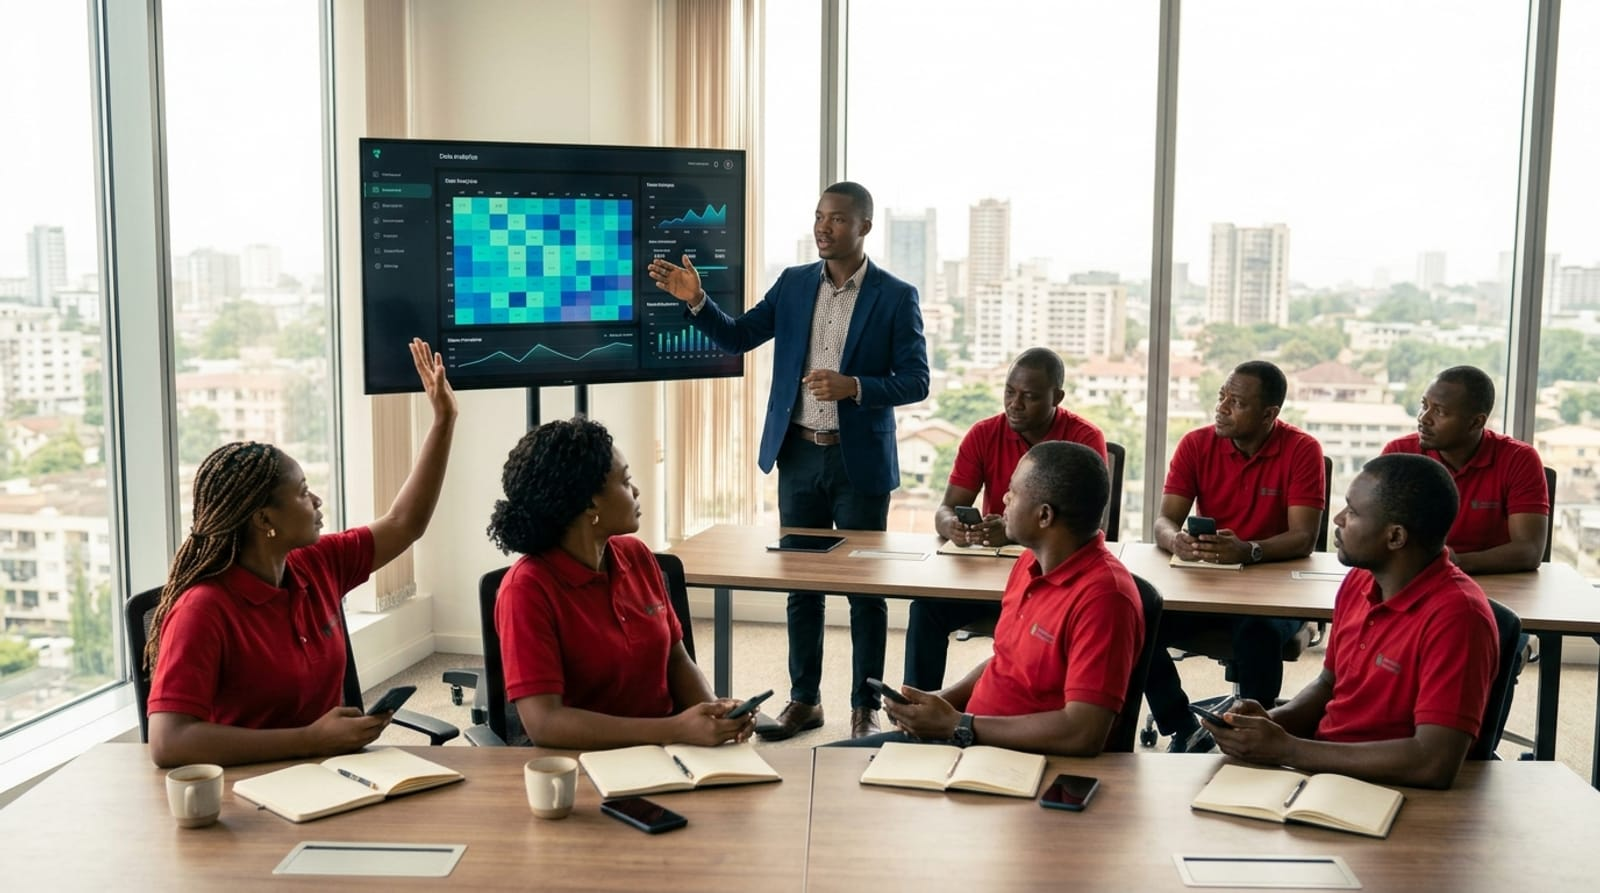
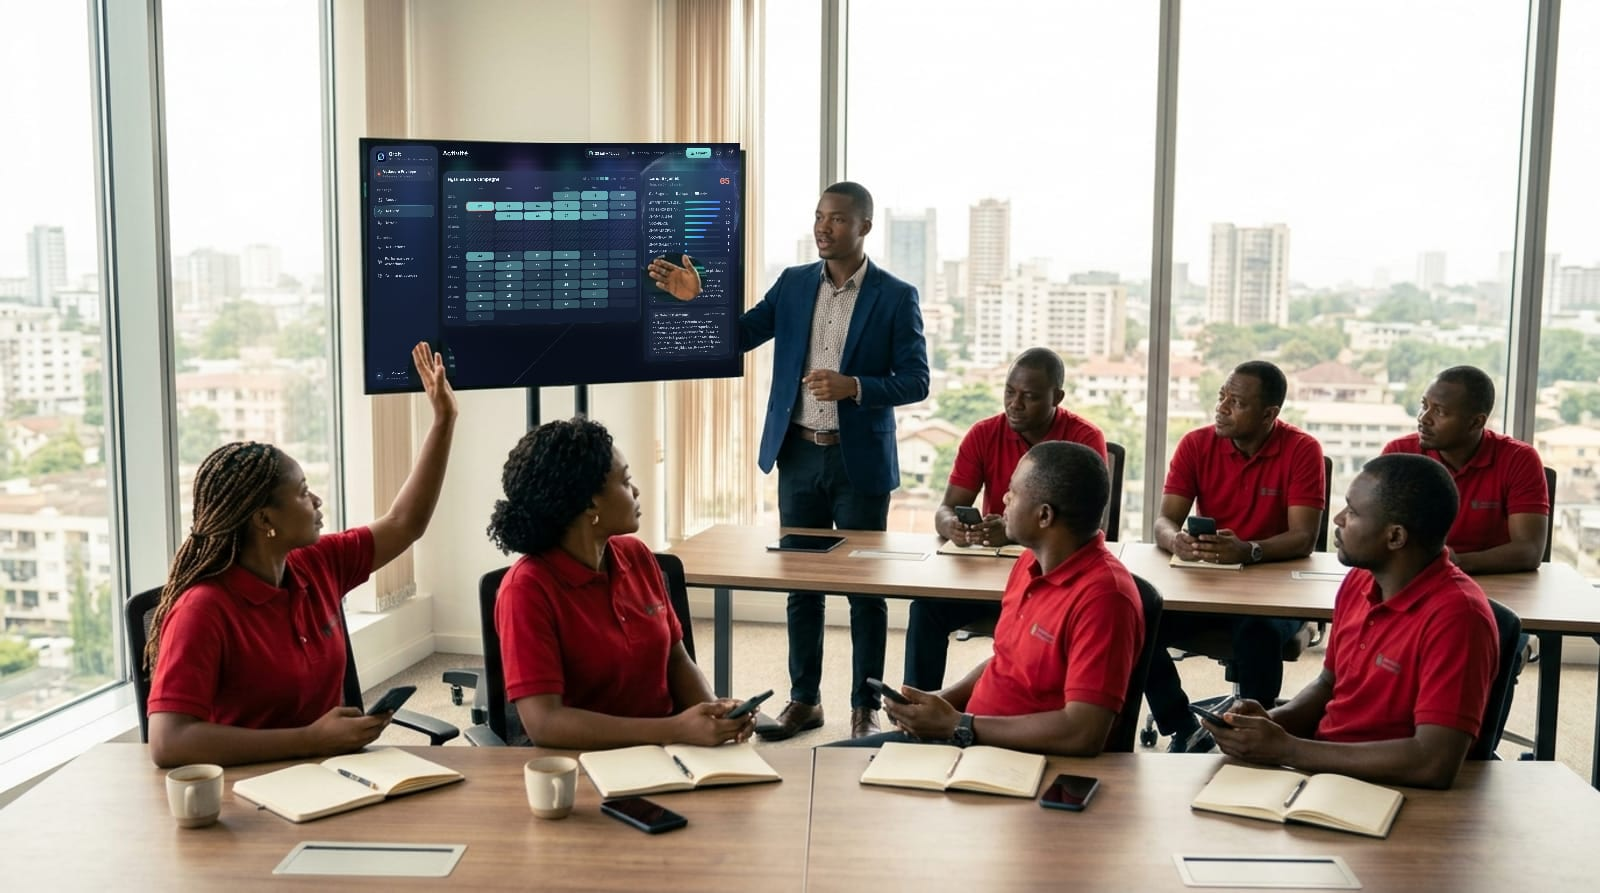
feat : vrais écrans d'Orbit dans les photos, QR code, nouveaux prix
- Captures réelles incrustées en perspective sur 7 photos (masques des mains et têtes)
- QR code d'accès à Orbit sur la slide « Se connecter »
- Signature BTL retirée de l'en-tête ; fin : « Orbit · Développé par Eldo »
- Prix : 400 $ par campagne, +100 $ option IA, 50 $ par nouveau type ; modèle ROI aligné

Changed region(s): [[0.2188, 0.1512, 0.4688, 0.4233]]

diff --git a/index.html b/index.html
@@ -25,7 +25,6 @@
 
 <header class="brandbar">
   <span class="brand"><img src="images/orbit.svg" alt="">Orbit</span>
-  <span class="btl" aria-label="BEYOND THE LINE Africa"><span class="btl-mark"><i></i><i></i><i></i></span><span class="btl-word"><b>BTL AFRICA</b><small>BEYOND THE LINE</small></span></span>
 </header>
 <div class="progress"><i></i></div>
 
@@ -201,6 +200,7 @@
       <span class="eyebrow">Étape 1</span>
       <h2>Se connecter</h2>
       <ol class="steps"><li><span><b>Vodacom</b> : lecture seule, un clic.</span></li><li><span><b>BTL</b> : choisir son profil, saisir son mot de passe.</span></li><li><span>Le tracker ouvre Orbit déjà connecté.</span></li></ol>
+      <div class="qr"><img src="images/qr-orbit.svg" alt="QR code vers Orbit"><span><b>Scannez pour ouvrir Orbit</b>eldoradodesign1.github.io/btl-deployment-report</span></div>
     </div>
     <div class="shot"><img src="images/app/01-connexion.jpg" alt="Écran de connexion d'Orbit"></div>
   </div>
@@ -347,8 +347,8 @@
     <span class="eyebrow">Le coût</span>
     <h2>Investi une fois.<br><span class="grad">Presque rien ensuite.</span></h2>
     <div class="tiles t3">
-      <div class="glass tile"><span class="tag">Développement complet</span><div class="num">500<small>$</small></div><p>Une fois. Déjà réalisé.</p></div>
-      <div class="glass tile"><span class="tag">Nouvelle campagne</span><div class="num">~100<small>$</small></div><p>Pour brancher un nouveau type.</p></div>
+      <div class="glass tile"><span class="tag">Développement complet</span><div class="num">500<small>$</small></div><p>Une fois. Déjà en cours de réalisation.</p></div>
+      <div class="glass tile"><span class="tag">Nouvelle campagne</span><div class="num">50<small>$</small></div><p>Pour brancher un nouveau type.</p></div>
       <div class="glass tile hl"><span class="tag">Hébergement</span><div class="num">&lt; 50<small>$ / mois</small></div><p>Base, site et IA compris.</p></div>
     </div>
   </div>
@@ -360,8 +360,8 @@
     <span class="eyebrow">Le modèle</span>
     <h2>Orbit devient<br><span class="grad">une ligne de facture.</span></h2>
     <div class="tiles t3">
-      <div class="glass tile"><span class="tag">Pilotage Orbit</span><div class="num">500<small>$ / campagne</small></div><p>Accès client, tableaux, rapports.</p></div>
-      <div class="glass tile hl"><span class="tag">Option IA</span><div class="num">+200<small>$ / campagne</small></div><p>Commentaires et questions.</p></div>
+      <div class="glass tile"><span class="tag">Pilotage Orbit</span><div class="num">400<small>$ / campagne</small></div><p>Accès client, tableaux, rapports.</p></div>
+      <div class="glass tile hl"><span class="tag">Option IA</span><div class="num">+100<small>$ / campagne</small></div><p>Commentaires et questions.</p></div>
       <div class="glass tile"><span class="tag">À la carte</span><div class="num">Quota</div><p>Questions par jour selon le contrat.</p></div>
     </div>
   </div>
@@ -381,10 +381,10 @@
     <div class="glass chart">
       <svg id="roi-chart" role="img" aria-label="Facturation mensuelle et solde cumulé sur 12 mois"></svg>
       <div class="legend"><span><i style="background:rgb(112 232 225)"></i>Facturé par mois</span><span><i style="background:rgb(160 140 255)"></i>Solde cumulé</span></div>
-      <p class="hyp">Hypothèses : 2 mois de rodage non facturés, puis 2 campagnes par mois, une sur deux avec l'IA. Coûts : 500 $ au départ, 100 $ par campagne, 50 $ par mois.</p>
+      <p class="hyp">Hypothèses : 2 mois de rodage non facturés, puis 2 campagnes par mois, une sur deux avec l'IA. Prix : 400 $ par campagne, +100 $ pour l'IA. Coûts : 500 $ au départ, 50 $ par nouvelle campagne, 50 $ par mois.</p>
     </div>
   </div>
-  <aside class="note"><b>3 min.</b> Les premiers mois sont négatifs (rodage, adhésion). Ensuite chaque campagne rapporte environ 400 $ net, 600 $ avec l'IA. Scénario volontairement prudent.</aside>
+  <aside class="note"><b>3 min.</b> Les premiers mois sont négatifs (rodage, adhésion). Ensuite chaque campagne rapporte environ 350 $ net, 450 $ avec l'IA. Scénario volontairement prudent.</aside>
 </section>
 
 <section class="slide" data-title="Calculateur">
@@ -396,7 +396,7 @@
         <label><span>Campagnes facturées par mois <b data-v="perMonth"></b></span><input type="range" name="perMonth" min="1" max="6" value="2"></label>
         <label><span>Mois de rodage non facturés <b data-v="pilot"></b></span><input type="range" name="pilot" min="0" max="6" value="2"></label>
         <label><span>Campagnes avec l'option IA <b data-v="iaShare"></b></span><input type="range" name="iaShare" min="0" max="100" step="10" value="50"></label>
-        <label><span>Prix Orbit par campagne <b data-v="price"></b></span><input type="range" name="price" min="200" max="1000" step="50" value="500"></label>
+        <label><span>Prix Orbit par campagne <b data-v="price"></b></span><input type="range" name="price" min="200" max="1000" step="50" value="400"></label>
       </div>
       <div class="glass out">
         <div class="kpis"><div class="kpi"><small>Point mort</small><b data-k="even"></b></div><div class="kpi"><small>Facturé sur 12 mois</small><b data-k="revenue"></b></div><div class="kpi"><small>Solde net</small><b data-k="total" class="grad"></b></div></div>
@@ -458,8 +458,7 @@
   <div class="reveal" style="text-align:center">
     <img class="endmark" src="images/orbit.svg" alt="Orbit">
     <h1>Merci.</h1>
-    <p class="lead" style="margin-inline:auto;max-width:40ch">Orbit · développé par Eldorado_design pour BEYOND THE LINE Africa.</p>
-    <p class="byeldo">By <b>Eldo</b></p>
+    <p class="byeldo">Orbit · Développé par <b>Eldo</b></p>
   </div>
   <aside class="note"><b>Questions et réponses.</b> Garder Orbit ouvert dans un autre onglet.</aside>
 </section>

diff --git a/styles.css b/styles.css
@@ -199,3 +199,9 @@ kbd { display: inline-block; min-width: 24px; padding: 1px 7px; border-radius: 7
 }
 @media (prefers-reduced-motion: reduce) { *, *::before, *::after { animation: none !important; transition-duration: .01ms !important; } }
 @media print { html, body { overflow: visible; height: auto; } .controls, .progress, .notes, .overview, .brandbar { display: none !important; } .slide { position: relative; height: 100vh; opacity: 1; visibility: visible; transform: none; page-break-after: always; } .reveal > *, .spot { opacity: 1; transform: none; filter: none; } }
+
+/* QR code d'accès (slide « Se connecter ») */
+.qr { display: flex; align-items: center; gap: 18px; margin-top: 28px; padding: 14px 18px 14px 14px; border-radius: 22px; width: fit-content; background: rgb(var(--panel) / .55); border: 1px solid rgb(var(--line) / .14); backdrop-filter: blur(18px); }
+.qr img { width: 112px; height: 112px; padding: 9px; border-radius: 14px; background: #fff; }
+.qr span { display: grid; gap: 4px; font-size: 13px; color: rgb(var(--ink) / .55); }
+.qr b { font: 600 17px var(--display); color: rgb(var(--ink)); letter-spacing: -.01em; }

diff --git a/deck.js b/deck.js
@@ -49,7 +49,7 @@
 
   // ── Modèle économique (même calcul pour le graphique et le calculateur) ──
   // Mois 0 : développement. Pilote : on ne facture pas encore. Ensuite : n campagnes / mois facturées.
-  const model = ({ perMonth, pilot, iaShare, price = 500, ia = 200, setup = 100, hosting = 50, dev = 500, months = 12 }) => {
+  const model = ({ perMonth, pilot, iaShare, price = 400, ia = 100, setup = 50, hosting = 50, dev = 500, months = 12 }) => {
     let cum = -dev; const rows = [];
     for (let m = 1; m <= months; m++) {
       const billing = m > pilot;
